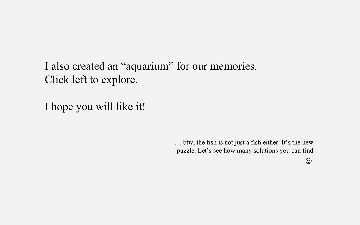
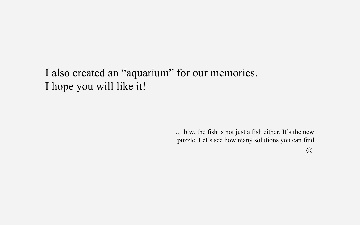
Finish adding text

Changed region(s): [[0.1222, 0.28, 0.7028, 0.4044], [0.4889, 0.56, 0.8861, 0.6844], [0.1222, 0.4667, 0.3972, 0.4978]]

diff --git a/index.html b/index.html
@@ -15,8 +15,8 @@
 		<!--[if lte IE 9]><link rel="stylesheet" href="assets/css/ie9.css" /><![endif]-->
 		<noscript><link rel="stylesheet" href="assets/css/noscript.css" /></noscript>
 	</head>
-	<!-- <body class="fullscreen"> -->
-	<body class="is-loading-0 is-loading-1 is-loading-2">
+	<body class="fullscreen">
+	<!-- <body class="is-loading-0 is-loading-1 is-loading-2"> -->
 
 		<!-- Main -->
 			<div id="main">
@@ -48,15 +48,13 @@
 						<article>
 							<a class="thumbnail" href="images/fulls/03.jpg"><img src="images/thumbs/03.jpg" alt="" /></a>
 							<h2>Fishy photo booth</h2>
-							<p>Unlimited trials, guaranteed quality <br>
-							With amazingly no fee <br>
-							As long as it's you and me.</p>
+							<p>Unlimited trials, guaranteed quality, free of charge.</p>
 						</article>
 						<article>
 							<a class="thumbnail" href="images/fulls/04.jpg"><img src="images/thumbs/04.jpg" alt="" /></a>
 							<h2>Sunbathing</h2>
-							<p>Forgetful goldfish see some golden sunshine <br>
-							Forgetful goldfish save it for you and I.</p>
+							<p>Forgetful goldfish saw some golden sunshine <br>
+							Forgetful goldfish saved it for you and I.</p>
 						</article>
 						<article>
 							<a class="thumbnail" href="images/fulls/05.jpg"><img src="images/thumbs/05.jpg" alt="" /></a>
@@ -68,92 +66,99 @@
 						<article>
 							<a class="thumbnail" href="images/fulls/06.jpg"><img src="images/thumbs/06.jpg" alt="" /></a>
 							<h2>Windy NYC</h2>
-							<p>Borrowing some winds, borrowing some light <br>
+							<p>Borrowed some winds, borrowed some light <br>
 							For my first time on the Empire State <br>
 							For your first time on the Empire State with me.</p>
 						</article>
 						<article>
 							<a class="thumbnail" href="images/fulls/07.jpg"><img src="images/thumbs/07.jpg" alt="" /></a>
 							<h2>Giant fish</h2>
-							<p>Three fish in a picture. <br>
-							Two fish in love.</p>
+							<p>Three fish in a picture. Two fish in love.</p>
 						</article>
 						<article>
 							<a class="thumbnail" href="images/fulls/08.jpg"><img src="images/thumbs/08.jpg" alt="" /></a>
 							<h2>Fishy us</h2>
-							<p>I spy, with my little fish eyes <br>
+							<p>I spy with my little fish eyes <br>
 							Some fish are doing cat's stuff.</p>
 						</article>
 						<article>
 							<a class="thumbnail" href="images/fulls/09.jpg"><img src="images/thumbs/09.jpg" alt="" /></a>
 							<h2>Date night</h2>
-							<p>At a rural cinema <br>
-							Two fish were working hard <br>
-							To ensure the facility's profit.</p>
+							<p>Two fish work hard to ensure a rural cinema's profit.<br>
+							They go watch movies together, a lot.</p>
 						</article>
 						<article>
 							<a class="thumbnail" href="images/fulls/10.jpg"><img src="images/thumbs/10.jpg" alt="" /></a>
 							<h2>New fins</h2>
-							<p>Pretty fins <br>
-							Urgly fins <br>
+							<p>Pretty fins. Ugly fins <br>
 							Still travel together.</p>
 						</article>
 						<article>
 							<a class="thumbnail" href="images/fulls/11.jpg"><img src="images/thumbs/11.jpg" alt="" /></a>
-							<h2>Fish's smile</h2>
+							<h2>Smiley fish</h2>
 							<p>I see the happiness in your eyes <br>
-							I see the happiness in your smile <br>
-							I see us in my life.</p>
+							I find the happiness in your smile <br>
+							I feel "us" in our lives.</p>
 						</article>
 						<article>
 							<a class="thumbnail" href="images/fulls/12.jpg"><img src="images/thumbs/12.jpg" alt="" /></a>
-							<h2>Mattis lorem sodales</h2>
-							<p>Feugiat auctor leo massa, nec vestibulum nisl erat faucibus, rutrum nulla.</p>
+							<h2>Fish's poem</h2>
+							<p>Fish go hiking<br>
+							Trip gets tiring<br>
+							Fish stop<br>
+							And practice kissing.</p>
 						</article>
 						<article>
 							<a class="thumbnail" href="images/fulls/13.jpg"><img src="images/thumbs/13.jpg" alt="" /></a>
-							<h2>Donec maximus nisi eget</h2>
-							<p>Tristique in nulla vel congue. Sed sociis natoque parturient nascetur.</p>
+							<h2>New Year Eve</h2>
+							<p>Let's go south, to the beach, where 2016 meets 2017.</p>
 						</article>
 						<article>
 							<a class="thumbnail" href="images/fulls/14.jpg"><img src="images/thumbs/14.jpg" alt="" /></a>
-							<h2>Nullam vitae nunc vulputate</h2>
-							<p>In pellentesque cursus velit id posuere. Donec vehicula nulla.</p>
+							<h2>2017</h2>
+							<p>Big fish<br>
+							Big pond<br>
+							Stay strong<br>
+							And dream on.</p>
 						</article>
 						<article>
 							<a class="thumbnail" href="images/fulls/15.jpg"><img src="images/thumbs/15.jpg" alt="" /></a>
-							<h2>Phasellus magna faucibus</h2>
-							<p>Nulla dignissim libero maximus tellus varius dictum ut posuere magna.</p>
+							<h2>Distorted heart</h2>
+							<p>我爱你, 让我们一起旅行. </p>
 						</article>
 						<article>
 							<a class="thumbnail" href="images/fulls/16.jpg"><img src="images/thumbs/16.jpg" alt="" /></a>
-							<h2>Proin quis mauris</h2>
-							<p>Etiam ultricies, lorem quis efficitur porttitor, facilisis ante orci urna.</p>
+							<h2>Waves</h2>
+							<p>You, me, by the sea.</p>
 						</article>
 						<article>
 							<a class="thumbnail" href="images/fulls/17.jpg"><img src="images/thumbs/17.jpg" alt="" /></a>
-							<h2>Gravida quis varius enim</h2>
-							<p>Nunc egestas congue lorem. Nullam dictum placerat ex sapien tortor mattis.</p>
+							<h2>Round and round</h2>
+							<p>"Playing merry-go-round with bae in a romantic, korean-drama-like manner" checked.</p>
 						</article>
 						<article>
 							<a class="thumbnail" href="images/fulls/18.jpg"><img src="images/thumbs/18.jpg" alt="" /></a>
-							<h2>Morbi eget vitae adipiscing</h2>
-							<p>In quis vulputate dui. Maecenas metus elit, dictum praesent lacinia lacus.</p>
+							<h2>Super hot heat vision</h2>
+							<p>Wow! This kiss is so hot it turns the picture into a heat map.<br>
+							Love you, bae ^^</p>
 						</article>
 						<article>
 							<a class="thumbnail" href="images/fulls/19.jpg"><img src="images/thumbs/19.jpg" alt="" /></a>
-							<h2>Habitant tristique senectus</h2>
-							<p>Vestibulum ante ipsum primis in faucibus orci luctus ac tincidunt dolor.</p>
+							<h2>My sunshine</h2>
+							<p>I know that sometimes we fight <br>
+							I know that sometimes "us" brings sadness, and madness<br>
+							But I also know that I want to be with you<br>
+							And I know that "us" means "love".</p>
 						</article>
 						<article>
 							<a class="thumbnail" href="images/fulls/20.jpg"><img src="images/thumbs/20.jpg" alt="" /></a>
-							<h2>Pharetra ex non faucibus</h2>
-							<p>Ut sed magna euismod leo laoreet congue. Fusce congue enim ultricies.</p>
+							<h2>Rise</h2>
+							<p>And let's shine together!</p>
 						</article>
 						<article>
 							<a class="thumbnail" href="images/fulls/21.jpg"><img src="images/thumbs/21.jpg" alt="" /></a>
-							<h2>Mattis lorem sodales</h2>
-							<p>Feugiat auctor leo massa, nec vestibulum nisl erat faucibus, rutrum nulla.</p>
+							<h2></h2>
+							<p></p>
 						</article>
 						<article>
 							<a class="thumbnail" href="images/fulls/22.jpg"><img src="images/thumbs/22.jpg" alt="" /></a>

diff --git a/createThumbs.py b/createThumbs.py
@@ -4,7 +4,7 @@ import cv2
 
 SRC = "./images/fulls/"
 DST = "./images/thumbs/"
-start = 21
+start = 1
 end = 22
 W = 360
 HoW = 0.625
